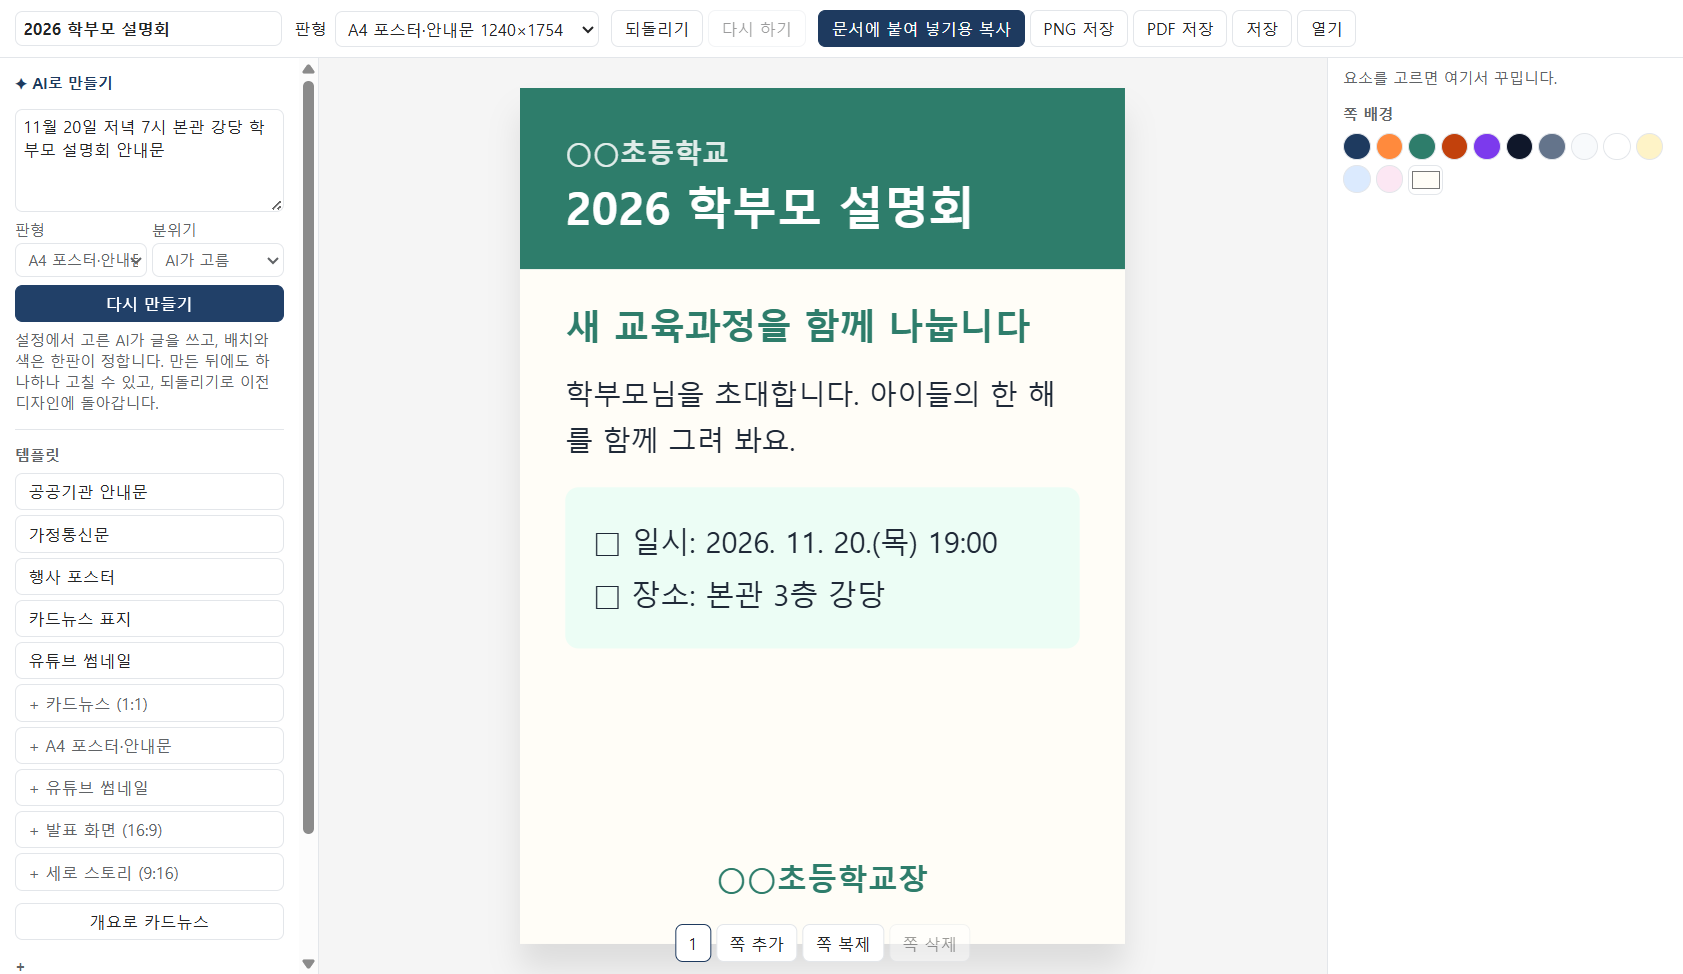
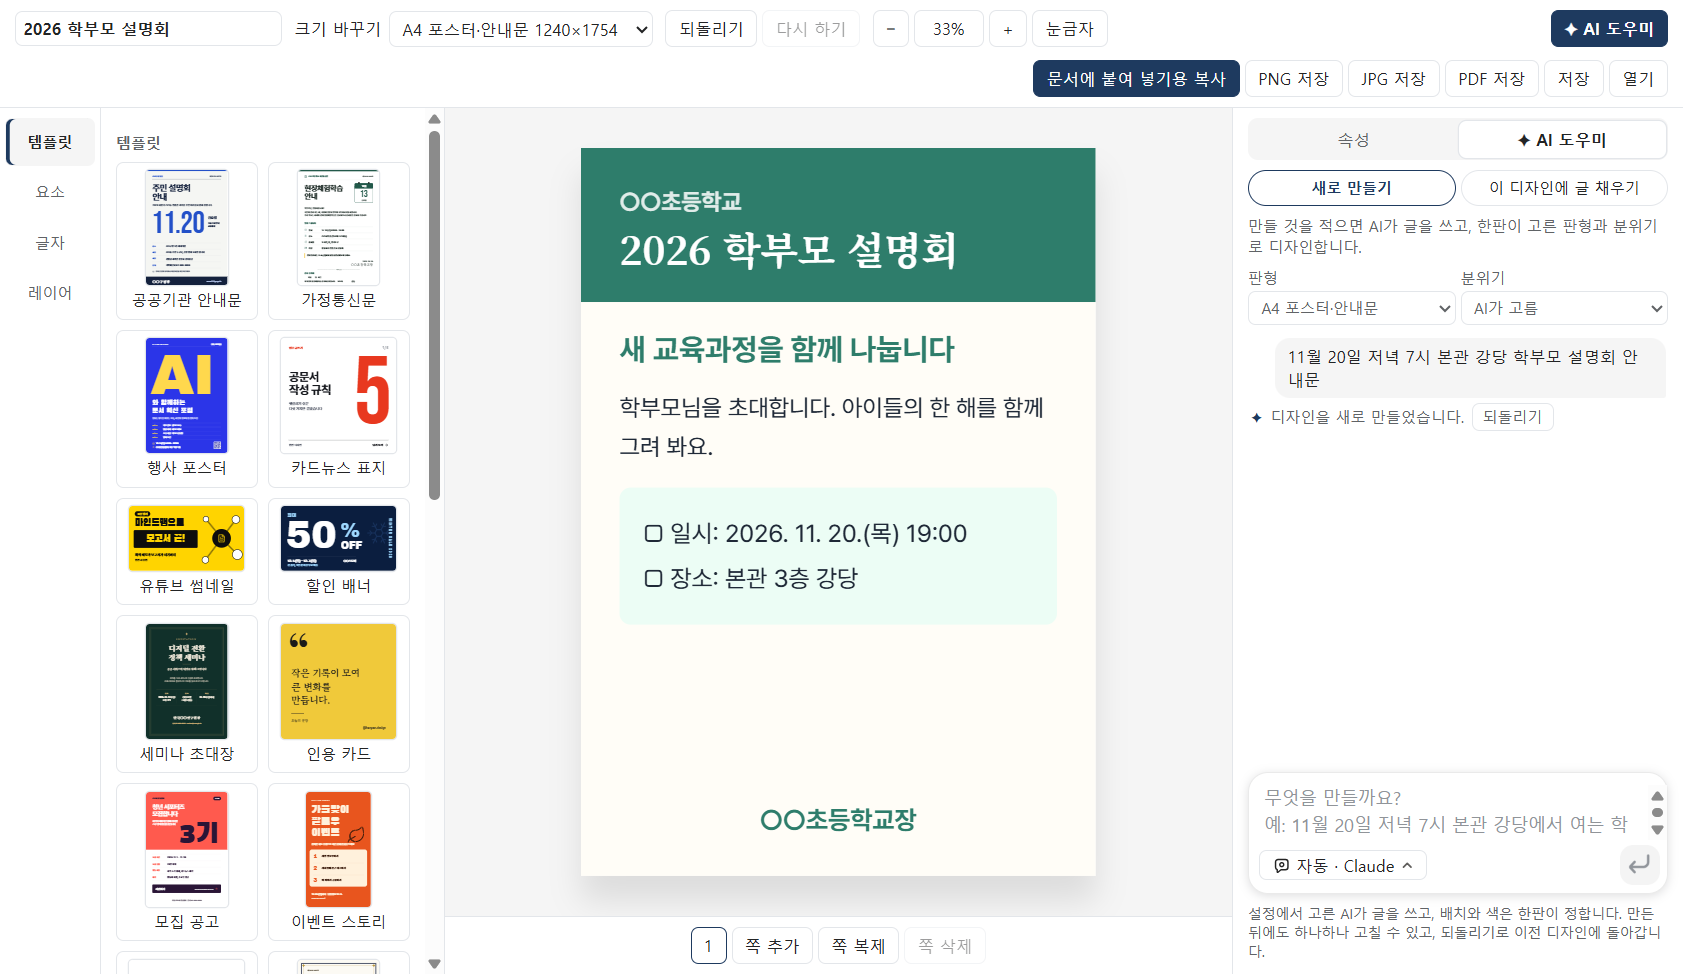
docs(site): design AI helper and 0.13.9 on the intro page

diff --git a/site/index.html b/site/index.html
@@ -224,7 +224,7 @@
               <svg viewBox="0 0 20 20" fill="none" stroke="currentColor" stroke-width="2" stroke-linecap="round" stroke-linejoin="round" aria-hidden="true"><path d="M10 3v10M5.5 8.5 10 13l4.5-4.5M4 16.5h12" /></svg>
               Windows용 내려받기
             </a>
-            <span class="meta">무료 · Windows 10/11 (64비트) · <span class="version">v0.13.8</span> · <a href="https://github.com/SamulChung/hanpan/releases">모든 버전</a></span>
+            <span class="meta">무료 · Windows 10/11 (64비트) · <span class="version">v0.13.9</span> · <a href="https://github.com/SamulChung/hanpan/releases">모든 버전</a></span>
             <span class="meta mac">Mac용 베타: <a class="mac-link" data-arch="arm64" href="https://github.com/SamulChung/hanpan/releases/latest">Apple 실리콘(M1 이상)</a> · <a class="mac-link" data-arch="x64" href="https://github.com/SamulChung/hanpan/releases/latest">Intel</a></span>
           </div>
         </div>
@@ -349,10 +349,10 @@
           <div class="copy">
             <span class="tag">디자인</span>
             <h3>안내문, 포스터, 카드뉴스는 AI에게 한 줄로</h3>
-            <p>만들 것을 한 줄로 적고 <strong>AI로 만들기</strong>를 누르면, AI가 글을 쓰고 한판이 배치와 색을 맞춘 디자인이 나옵니다.</p>
+            <p>오른쪽 <strong>✦ AI 도우미</strong>에 만들 것을 한 줄로 적으면, AI가 글을 쓰고 한판이 배치와 색을 맞춘 디자인이 나옵니다. 고른 템플릿에 내 내용만 채워 넣을 수도 있습니다.</p>
             <ul>
               <li>A4 안내문, 카드뉴스, 썸네일, 발표 화면, 세로 스토리</li>
-              <li>만든 뒤에도 글과 도형을 하나씩 고치고, 글 상자는 AI로 다듬기·줄이기·번역</li>
+              <li>만든 뒤에도 글과 도형을 하나씩 고치고, 글 상자를 고르면 ✦ 막대로 다듬기·줄이기·번역</li>
               <li>여러 개 골라 맞춤선에 맞춰 옮기기, 돌리기, 그러데이션·그림자·외곽선, 도형·QR 코드</li>
               <li>템플릿마다 색과 그림이 다른 템플릿 20가지와 선 아이콘 124개, 어느 PC에서나 같은 모양인 한판 글꼴</li>
               <li>판 크기를 바꿔도 배치는 그대로: A4 안내문을 카드뉴스나 썸네일로</li>
@@ -360,7 +360,7 @@
               <li>PNG·JPG·PDF로 저장하거나 복사해서 한글·워드·PPT에 바로 붙여 넣기</li>
             </ul>
           </div>
-          <div class="shot"><img src="images/11-design-ai.png" alt="한 줄 요청으로 AI가 만든 학부모 설명회 안내문이 열린 디자인 창" loading="lazy" width="1683" height="974" /></div>
+          <div class="shot"><img src="images/11-design-ai.png" alt="오른쪽 AI 도우미와 한 줄 요청으로 만든 학부모 설명회 안내문이 열린 디자인 창" loading="lazy" width="1683" height="974" /></div>
         </article>
       </div>
     </section>
@@ -370,6 +370,11 @@
         <h2 id="news-title">업데이트 소식</h2>
         <p class="intro">설치한 한판은 새 버전이 나오면 알려 주고 스스로 업데이트합니다.</p>
         <ol class="news">
+          <li>
+            <span class="news-ver">0.13.9</span>
+            <span class="news-date">2026. 10. 31.</span>
+            <p>디자인 창에 AI 도우미가 생겼습니다. 오른쪽 위 ✦ AI 도우미를 누르면 새 디자인을 만들거나, 고른 템플릿의 모양은 그대로 두고 글만 내 내용으로 바꿀 수 있습니다. 글 상자를 고르면 위에 뜨는 막대로 다듬기, 줄이기, 번역도 한 번에 합니다.</p>
+          </li>
           <li>
             <span class="news-ver">0.13.8</span>
             <span class="news-date">2026. 10. 31.</span>
@@ -432,7 +437,7 @@
         <ol class="steps">
           <li>
             <h3>내려받기</h3>
-            <p><a class="download-link" href="https://github.com/SamulChung/hanpan/releases/latest"><span class="file-name">Hanpan-Setup-0.13.8.exe</span></a>를 내려받아 실행합니다.</p>
+            <p><a class="download-link" href="https://github.com/SamulChung/hanpan/releases/latest"><span class="file-name">Hanpan-Setup-0.13.9.exe</span></a>를 내려받아 실행합니다.</p>
           </li>
           <li>
             <h3>Windows 경고 넘기기</h3>
